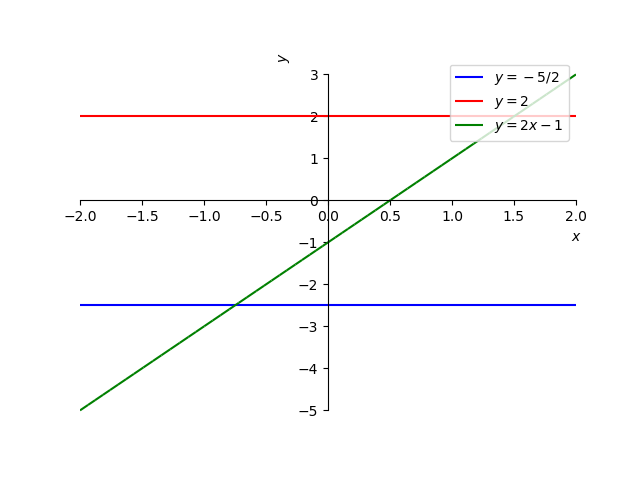
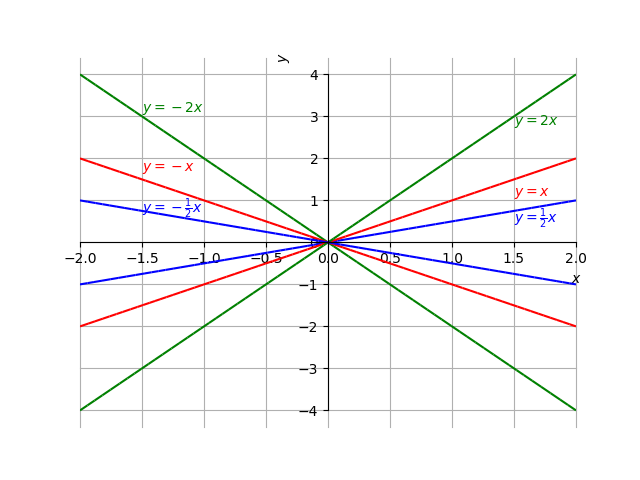
*: atualização do material sobre funções afins

diff --git a/src/CalculoI/cap_funcao/cap_funcao.tex b/src/CalculoI/cap_funcao/cap_funcao.tex
@@ -4,15 +4,17 @@
 \thispagestyle{fancy}
 
 \ifispython
+\begin{obs}\label{obs:cap_funcao_python}
 Ao longo deste capítulo, contaremos com o suporte de alguns códigos \href{https://www.python.org/}{Python} com o seguinte preâmbulo:
 \begin{verbatim}
 from sympy import *
 init_printing()
 var('x')
 \end{verbatim}
+\end{obs}
 \fi
 
-\section{Definição e gráfico}\label{cap_funcao_sec_defgrafico}
+\section{Definição e gráfico de funções}\label{cap_funcao_sec_defgrafico}
 
 Uma \pmb{função}\index{função} de um conjunto $D$ em um conjunto $Y$ é uma regra que associa um único elemento $y\in Y$\footnote{$y\in Y$ denota que $y$ é um elemento do conjunto $Y$.} a cada elemento $x\in D$. Costumeiramente, identificamos uma função por uma letra, por exemplo, $f$ e escrevemos $f:D\to Y$, $y=f(x)$, para denotar que a função $f$ toma valores de entrada em $D$ e de saída em $Y$.
 
@@ -86,32 +88,70 @@ plot(sqrt(1-x**2),(x,-1,1))
 
 \emconstrucao
 
-\section{Tipos de funções}\label{cap_funcao_sec_tipofun}
+\section{Função afim}\label{cap_funcao_sec_funafim}
 
-Nesta seção, vamos ressaltar alguns tipos de funções que aparecerem com frequência nos estudos de cálculo.
+Uma \pmb{função afim}\index{função!afim} é uma função da forma
+\begin{equation}
+f(x) = mx + b,
+\end{equation}
+sendo $m$ e $b$ parâmetros\footnote{números reais.} dados. O parâmetro $m$ é chamado de \pmb{coeficiente angular} e o parâmetro $b$ é chamado de \pmb{coeficiente constante}\footnote{Mais corretamente, coeficiente do termo constante.}.
 
-\subsection{Funções lineares}
+Quando $m=0$, temos uma \pmb{função constante}\index{função!constante} $f(x) = b$. Esta tem domínio $(-\infty, \infty)$ e imagem $\{b\}$. Quando $b=0$, temos uma \pmb{função linear} $f(x)=mx$, cujo domínio é $(-\infty, \infty)$ e imagem é $(-\infty, \infty)$.
 
-Uma \pmb{função linear}\index{função!linear} é uma função da forma $f(x) = mx + b$, sendo $m$ e $b$ parâmetros\footnote{números reais.} dados. Recebe este nome, pois seu gráfico é uma linha (uma reta)\footnote{Não confundir com o conceito de linearidade de operadores.}.
+Por outro lado, toda função linear com $m\neq 0$ tem $(-\infty, \infty)$ como domínio e imagem.
 
-Quando $m=0$, temos uma \pmb{função constante}\index{função!constante} $f(x) = b$. Esta tem domínio $(-\infty, \infty)$ e imagem $\{b\}$. Por outro lado, toda função linear com $m\neq 0$ tem $(-\infty, \infty)$ como domínio e imagem.
-
-\begin{ex}\label{ex:funlinear}
-  A Figura \ref{fig:ex_funlinear} mostra esboços dos gráficos das funções lineares $f(x)=-5/2$, $f(x)=2$ e $f(x)=2x-1$.
+\begin{ex}\label{ex:funafim}
+  A Figura \ref{fig:ex_funafim} mostra esboços dos gráficos das funções afins $f(x)=-5/2$, $f(x)=2$ e $f(x)=2x-1$.
   
-  \begin{figure}[h!]
+  \begin{figure}[H]
     \centering
-    \includegraphics[width=0.7\textwidth]{./cap_funcao/dados/fig_ex_funlinear/fig_ex_funlinear}
-    \caption{Esboços dos gráficos das funções lineares $y=-5/2$, $y=2$ e $y=2x-1$ discutidas no Exemplo \ref{ex:funlinear}.}
-    \label{fig:ex_funlinear}
+    \includegraphics[width=0.7\textwidth]{./cap_funcao/dados/fig_ex_funafim/fig_ex_funafim}
+    \caption{Esboços dos gráficos das funções afins $y=-5/2$, $y=2$ e $y=2x-1$ discutidas no Exemplo \ref{ex:funafim}.}
+    \label{fig:ex_funafim}
   \end{figure}
+
+  \ifispython
+  Com o \verb+Sympy+, podemos plotar os gráficos destas funções com os seguintes comandos\footnote{Veja a Observação \ref{obs:cap_funcao_python}}:
+\begin{verbatim}
+plot(-5/2,(x,-2,2))
+plot(2,(x,-2,2))
+plot(2*x-1,(x,-2,2))
+\end{verbatim}
+  \fi
 \end{ex}
 
-\begin{obs}
-  O lugar geométrico do gráfico de uma função linear é uma reta (ou linha). O parâmetro $m$ controla a inclinação da reta em relação ao eixo $x$\footnote{eixo das abscissas}. Quando $m=0$, temos uma reta horizontal. Quando $m>0$ temos uma reta com inclinação positiva (crescente) e, quando $m<0$ temos uma reta com inclinação negativa. Verifique!
-\end{obs}
+O lugar geométrico do gráfico de uma função afim é uma reta (ou linha). O coeficiente angular $m$ controla a inclinação da reta em relação ao eixo $x$\footnote{eixo das abscissas}. Quando $m=0$, temos uma reta horizontal. Quando $m>0$ temos uma reta com inclinação positiva (crescente) e, quando $m<0$ temos uma reta com inclinação negativa.
 
-Quaisquer dois pontos $(x_0, y_0)$ e $(x_1, y_1)$, com $x_0\neq x_1$, determinam uma única função linear (reta) que passa por estes pontos. Para encontrar a expressão desta função, basta resolver o seguinte sistema linear
+\begin{ex}\label{ex:funlinear}
+  A Figura \ref{fig:ex_funlinear} mostra esboços dos gráficos das funções lineares $f_1(x)=\frac{1}{2}x$, $f_2(x) = x$, $f_3(x) = 2x$, $f_4(x)=-2x$, $f_5(x)=-x$ e $f_6(x)=-\frac{1}{2}x$.
+  
+  \begin{figure}[H]
+    \centering
+    \includegraphics[width=0.7\textwidth]{./cap_funcao/dados/fig_ex_funlinear/fig_ex_funlinear}
+    \caption{Esboços dos gráficos das funções lineares discutidas no Exemplo \ref{ex:funlinear}.}
+    \label{fig:ex_funlinear}
+  \end{figure}
+
+  \ifispython
+  Verifique, plotando os gráficos com o \verb+Sympy+!
+\end{ex}
+
+\begin{figure}[H]
+  \centering
+  \includegraphics[width=0.7\textwidth]{./cap_funcao/dados/fig_declividade/fig_declividade}
+  \caption{Declividade e o coeficiente angular.}
+  \label{fig:ex_funlinear}
+\end{figure}
+
+A inclinação de uma reta é, normalmente, medida pelo ângulo de declividade (veja a Figura \ref{fig:declividade}). Para definirmos este ângulo, sejam $(x_0, y_0)$ e $(x_1, y_1)$, $x_0<x_1$, pontos sobre uma dada reta, gráfico da função afim $f(x)=mx+b$. O ângulo de declividade (ou, simplesmente, a declividade) da reta é, por definição, o ângulo formado pelo segmento que parte de $(x_0, y_0)$ e termina em $(x_1, y_0)$ e o segmente que parte de $(x_0, y_0)$ e termina em $(x_1, y_1)$. Denotando este ângulo por $\theta$, temos
+\begin{align}
+  \tg\theta &= \frac{y_1-y_0}{x_1-x_0}\\
+            &= \frac{mx_1+b-(mx_0+b)}{x_1-x_0}\\
+            &= m,
+\end{align}
+o que justifica chamar $m$ de coeficiente angular.
+
+Quaisquer dois pontos $(x_0, y_0)$ e $(x_1, y_1)$, com $x_0\neq x_1$, determinam uma única função afim (reta) que passa por estes pontos. Para encontrar a expressão desta função, basta resolver o seguinte sistema linear
 \begin{align}
   mx_0 + b &= y_0\\
   mx_1 + b &= y_1
@@ -129,7 +169,42 @@ Ou seja, a expressão da função linear (equação da reta) que passa pelos pon
   y = \underbrace{\frac{y_0-y_1}{x_0-x_1}}_{m}(x-x_0) + y_0.
 \end{equation}
 
-\subsection{Funções potência}
+\subsection*{Exercícios resolvidos}
+
+\begin{exeresol}
+Trace o esboço da reta que representa o gráfico da função afim $f(x) = -x-1$.  
+\end{exeresol}
+\begin{resol}
+  Para esboçar o gráfico de uma função afim, basta traçarmos a reta que passa por quaisquer dois pontos distintos de seu gráfico. Por exemplo, no caso da função $f(x) = -x -1$, temos
+  \begin{center}
+  \begin{tabular}[H]{r|c}
+    $x$ & $y = -x-1$\\\hline
+    -1  & 0\\
+    1   & -2\\\hline
+  \end{tabular}
+\end{center}
+Assim sendo, marcamos os pontos $(-1, 0)$ e $(1, -2)$ em um plano cartesiano e traçamos a reta que passa por eles. Veja a Figura \ref{fig:exeresol_funafim_grafico}.
+
+\begin{figure}[H]
+  \centering
+  \includegraphics[width=0.7\textwidth]{./cap_funcao/dados/fig_exeresol_funafim_grafico/fig_exeresol_funafim_grafico}
+  \caption{Esboço do gráfico da função afim $f(x)=-x-1$.}
+  \label{fig:exeresol_funafim_grafico}
+\end{figure}
+
+\ifispython
+Com o \verb+Sympy+, podemos plotar o gráfico da função $f(x)=-x-1$ com o seguinte comando\footnote{Veja a Observação \ref{obs:cap_funcao_python}}:
+\begin{verbatim}
+plot(-x-1,(x,-3,3))
+\end{verbatim}
+\fi
+\end{resol}
+
+\subsection*{Exercícios}
+
+\emconstrucao
+
+\section{Função potência}\label{cap_funcao_sec_funpot}
 
 Uma função da forma $f(x)=x^n$, onde $n\neq 0$ é uma constante, é chamada de \pmb{função potência}\index{função!potência}.
 
@@ -172,7 +247,15 @@ Há, ainda, comportamentos característicos quando $n=1/2$, $1/3$, $3/2$ e $2/3$
 \end{figure}
 
 
-\subsection{Funções polinomiais}
+\subsection*{Exercícios resolvidos}
+
+\emconstrucao
+
+\subsection*{Exercícios}
+
+\emconstrucao
+
+\section{Função polinomial}\label{cap_funcao_sec_funpoli}
 
 Uma {\bf função polinomial}\index{função polinomial} ({\bf polinômio}\index{polinômio}) tem a forma
 \begin{equation}
@@ -192,7 +275,15 @@ Polinômios são definidos em toda parte\footnote{Uma função é dita ser defin
 
 Quando $n=0$, temos um polinômio de grau 0 (ou uma função constante). Quando $n=1$, temos um polinômio de grau 1 (ou, uma função linear). Ainda, quando $n=2$ temos uma {\bf função quadrática}\index{função!quadrática} (ou {\bf polinômio quadrático}\index{polinômio!quadrático}) e, quando $n=3$, temos uma {\bf função cúbica}\index{função!cúbica} (ou {\bf polinômio cúbico}\index{polinômio cúbico}).
 
-\subsection{Funções racionais}
+\subsection*{Exercícios resolvidos}
+
+\emconstrucao
+
+\subsection*{Exercícios}
+
+\emconstrucao
+
+\subsection{Função racional}\label{cap_funcao_sec_funracio}
 
 Uma {\bf função racional}\index{função!racional} tem a forma
 \begin{equation}
@@ -209,6 +300,15 @@ Função racionais não estão definidas nos zeros de $q(x)$. Além disso, suas 
   \label{fig:racional_grafico}
 \end{figure}
 
+\subsection*{Exercícios resolvidos}
+
+\emconstrucao
+
+\subsection*{Exercícios}
+
+\emconstrucao
+
+\section{Categorizações de funções}
 
 \subsection{Funções algébricas}
 
@@ -259,6 +359,10 @@ Vejamos o esboço do seu gráfico dado na Figura \ref{fig:funabs}.
   \caption{Esboço do gráfico da função valor absoluto $y=|x|$.}
   \label{fig:funabs}
 \end{figure}
+
+\subsection*{Exercícios resolvidos}
+
+\emconstrucao
 
 \subsection*{Exercícios}
 

diff --git a/src/CalculoI/cap_funcao/dados/fig_ex_funlinear/fig_ex_funlinear.py b/src/CalculoI/cap_funcao/dados/fig_ex_funlinear/fig_ex_funlinear.py
@@ -1,15 +1,29 @@
 from sympy import *
 var('x')
 
-p=plot(-5/2,(x,-2,2),line_color='blue',show=False)
-q=plot(2,(x,-2,2),line_color='red',show=False)
+p=plot(0.5*x,(x,-2,2),line_color='blue',show=False)
+q=plot(x,(x,-2,2),line_color='red',show=False)
 p.extend(q)
-q=plot(2*x-1,(x,-2,2),line_color='green',show=False)
+q=plot(2*x,(x,-2,2),line_color='green',show=False)
 p.extend(q)
-p[0].label="$y=-5/2$"
-p[1].label="$y=2$"
-p[2].label="$y=2x-1$"
-p.legend=True
+q=plot(-2*x,(x,-2,2),line_color='green',show=False)
+p.extend(q)
+q=plot(-x,(x,-2,2),line_color='red',show=False)
+p.extend(q)
+q=plot(-0.5*x,(x,-2,2),line_color='blue',show=False)
+p.extend(q)
 p.xlabel="$x$"
 p.ylabel="$y$"
 p.save('fig_ex_funlinear.png')
+
+fig = p._backend.fig
+ax = fig.axes[0]
+ax.grid()
+ax.text(1.5,0.45,'$y=\\frac{1}{2}x$',color='blue')
+ax.text(1.5,1.1,'$y=x$',color='red')
+ax.text(1.5,2.8,'$y=2x$',color='green')
+ax.text(-1.5,3.1,'$y=-2x$',color='green')
+ax.text(-1.5,1.7,'$y=-x$',color='red')
+ax.text(-1.5,0.7,'$y=-\\frac{1}{2}x$',color='blue')
+
+fig.savefig('fig_ex_funlinear.png')

diff --git a/src/CalculoI/cap_funcao/dados/fig_exeresol_funafim_grafico/main.py b/src/CalculoI/cap_funcao/dados/fig_exeresol_funafim_grafico/main.py
@@ -1,0 +1,17 @@
+from sympy import *
+var('x')
+
+p=plot(-x-1,(x,-3,3),line_color='blue',show=False)
+p.xlabel="$x$"
+p.ylabel="$y$"
+p.save('fig_exeresol_funafim_grafico.png')
+
+fig = p._backend.fig
+ax = fig.axes[0]
+ax.grid()
+ax.plot([-1],[0],color='red',marker='o',markersize=3)
+ax.plot([1],[-2],color='red',marker='o',markersize=3)
+ax.text(-1,0.1,'$(-1, 0)$')
+ax.text(1,-1.9,'$(1, -2)$')
+ax.text(2.2,-3,'$f(x)=-x-1$')
+fig.savefig('fig_exeresol_funafim_grafico.png')

diff --git a/src/CalculoI/cap_funcao/dados/fig_ex_funafim/fig_ex_funafim.py b/src/CalculoI/cap_funcao/dados/fig_ex_funafim/fig_ex_funafim.py
@@ -1,0 +1,15 @@
+from sympy import *
+var('x')
+
+p=plot(-5/2,(x,-2,2),line_color='blue',show=False)
+q=plot(2,(x,-2,2),line_color='red',show=False)
+p.extend(q)
+q=plot(2*x-1,(x,-2,2),line_color='green',show=False)
+p.extend(q)
+p[0].label="$y=-5/2$"
+p[1].label="$y=2$"
+p[2].label="$y=2x-1$"
+p.legend=True
+p.xlabel="$x$"
+p.ylabel="$y$"
+p.save('fig_ex_funafim.png')
